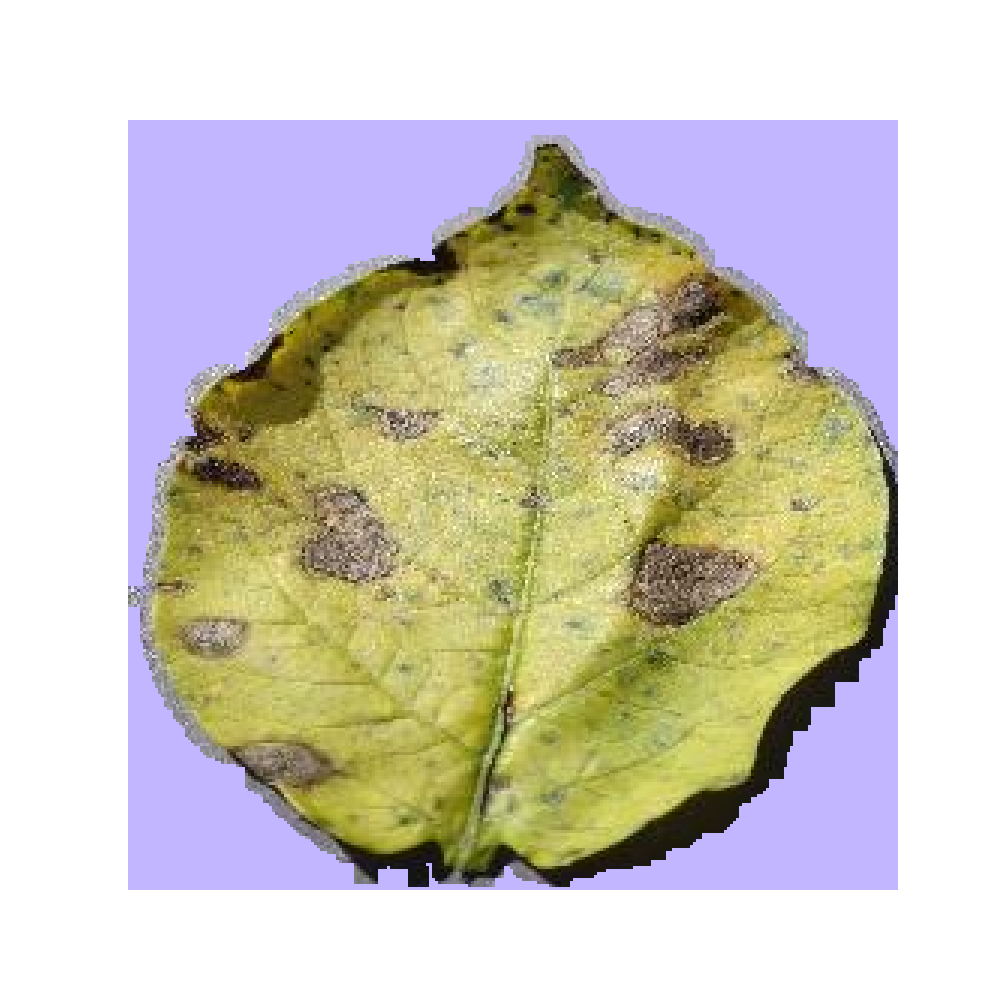
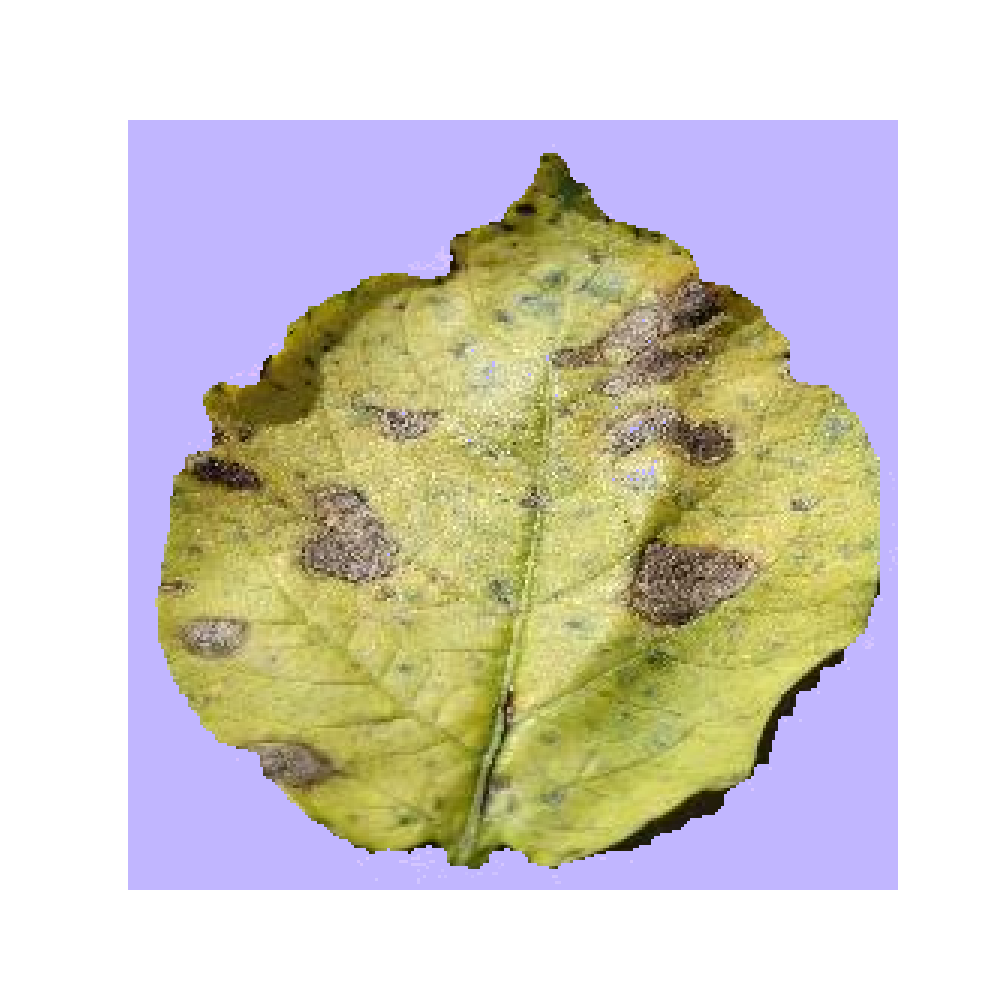
some changes on spot finding made

Changed region(s): [[0.124, 0.124, 0.899, 0.899]]

diff --git a/pyfile/pink_back.py b/pyfile/pink_back.py
@@ -1,0 +1,52 @@
+import cv2
+import numpy as np
+
+# Load the image
+image_path = 'PotatoEarlyBlight4.JPG'
+image = cv2.imread(image_path)
+
+# Convert to HSV color space for more precise color filtering
+hsv = cv2.cvtColor(image, cv2.COLOR_BGR2HSV)
+
+# Define color range for green (leaf color) in HSV space and adjust for better segmentation
+lower_green = np.array([20, 30, 30])  # Adjusted lower range
+upper_green = np.array([90, 255, 255])  # Adjusted upper range
+
+# Create a mask based on the color range
+mask_green = cv2.inRange(hsv, lower_green, upper_green)
+
+# Perform morphological operations to remove noise and fill gaps
+kernel = np.ones((7, 7), np.uint8)  # Larger kernel for better cleaning
+mask_cleaned = cv2.morphologyEx(mask_green, cv2.MORPH_CLOSE, kernel)
+mask_cleaned = cv2.dilate(mask_cleaned, kernel, iterations=1)  # Additional dilation to cover gaps
+
+# Find contours in the cleaned mask
+contours, _ = cv2.findContours(mask_cleaned, cv2.RETR_EXTERNAL, cv2.CHAIN_APPROX_SIMPLE)
+
+# Assume the largest contour is the leaf and create a mask from it
+if contours:
+    largest_contour = max(contours, key=cv2.contourArea)
+    mask_final = np.zeros_like(mask_cleaned)
+    cv2.drawContours(mask_final, [largest_contour], -1, 255, thickness=cv2.FILLED)
+
+    # Bitwise-and to cut out the leaf with the final mask
+    leaf_only_refined = cv2.bitwise_and(image, image, mask=mask_final)
+    
+    # Create a pink background
+    background_pink = np.full(image.shape, (255, 182, 193), dtype=np.uint8)  # Pink background
+
+    # Add a pink outline to the leaf by creating a slightly larger contour
+    mask_outline = np.zeros_like(mask_final)
+    cv2.drawContours(mask_outline, [largest_contour], -1, 255, thickness=10)  # Adjust thickness as needed
+    outline_pink = cv2.bitwise_and(background_pink, background_pink, mask=mask_outline)
+    
+    # Combine the pink background with the leaf-only image and the pink outline
+    pink_background_image = cv2.bitwise_and(background_pink, background_pink, mask=~mask_final)  # Pink outside leaf
+    pink_background_image = cv2.add(pink_background_image, leaf_only_refined)  # Add the leaf region
+    pink_background_image = cv2.add(pink_background_image, outline_pink)  # Add the pink outline
+
+else:
+    pink_background_image = image  # If no leaf found, use original image
+
+# Save the result as a PNG image
+cv2.imwrite("pyfile/pink3.png", pink_background_image)

diff --git a/pyfile/change_white_pink.py b/pyfile/change_white_pink.py
@@ -1,0 +1,27 @@
+import cv2
+import numpy as np
+
+# Load the image
+image = cv2.imread('pyfile/pink3.png')
+
+# Define the color range for white in BGR (use a threshold to capture shades of white)
+lower_white = np.array([200, 200, 200])   # Lower bound for white
+upper_white = np.array([255, 255, 255])   # Upper bound for white
+
+# Create a mask to detect white areas
+mask_white = cv2.inRange(image, lower_white, upper_white)
+
+# Create a pink color image of the same size as the input image
+pink_color = np.full_like(image, (255, 182, 193))  # Pink in BGR
+
+# Use the mask to replace white areas with pink in the image
+image_with_pink_background = cv2.bitwise_and(pink_color, pink_color, mask=mask_white)
+image_with_pink_background = cv2.add(image_with_pink_background, cv2.bitwise_and(image, image, mask=~mask_white))
+
+# Save the result
+cv2.imwrite('pyfile/image_with_pink_background.png', image_with_pink_background)
+
+# # Optional: Display the result
+# cv2.imshow('Pink Background', image_with_pink_background)
+# cv2.waitKey(0)
+# cv2.destroyAllWindows()

diff --git a/mark/chk2/pink_green_visible.py b/mark/chk2/pink_green_visible.py
@@ -3,7 +3,7 @@ import numpy as np
 from matplotlib import pyplot as plt
 
 # Load the image and convert it to HSV color space
-image = cv2.imread("pink2.png")
+image = cv2.imread("pyfile/image_with_pink_background.png")
 hsv = cv2.cvtColor(image, cv2.COLOR_BGR2HSV)
 
 # Define color range for green (leaf color) in HSV space

diff --git a/mark/chk3/mask_pink.py b/mark/chk3/mask_pink.py
@@ -2,7 +2,7 @@ import cv2
 import numpy as np
 
 # Load the image and convert it to HSV color space
-image = cv2.imread("pink2.png")
+image = cv2.imread("pyfile/image_with_pink_background.png")
 hsv = cv2.cvtColor(image, cv2.COLOR_BGR2HSV)
 
 # Convert the specific BGR pink color (255, 182, 193) to HSV
